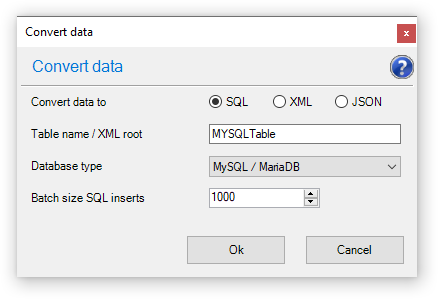
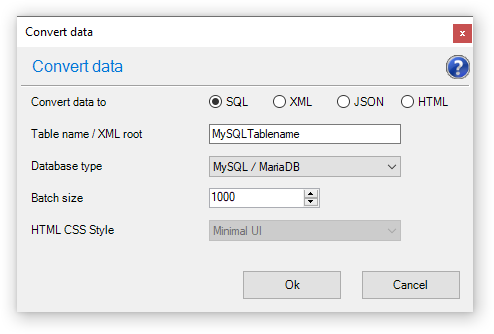
Update for 0.4.8
Version, DLLs, readme and screenshots update for 0.4.8

Changed region(s): [[0.0297, 0.0301, 0.9795, 0.9331], [0.0594, 0.5418, 0.3265, 0.7224]]

diff --git a/CSVLintNppPlugin/Properties/AssemblyInfo.cs b/CSVLintNppPlugin/Properties/AssemblyInfo.cs
@@ -32,5 +32,5 @@ using System.Runtime.InteropServices;
 // You can specify all the values or you can default the Build and Revision Numbers 
 // by using the '*' as shown below:
 // [assembly: AssemblyVersion("1.0.*")]
-[assembly: AssemblyVersion("0.4.7.0")]
-[assembly: AssemblyFileVersion("0.4.7.0")]
+[assembly: AssemblyVersion("0.4.8.0")]
+[assembly: AssemblyFileVersion("0.4.8.0")]

diff --git a/CSVLintNppPlugin/CsvLint/CsvSchemaIni.cs b/CSVLintNppPlugin/CsvLint/CsvSchemaIni.cs
@@ -108,8 +108,7 @@ namespace CSVLintNppPlugin.CsvLint
                 //MessageBox.Show(ex.ToString());
                 errmsg = ex.Message;
                 return false;
-            }
-            ;
+            };
             string file = Path.GetFileName(filePath);
 
             // schema.ini and section name

diff --git a/docs/readme.md b/docs/readme.md
@@ -134,7 +134,7 @@ a dialog will appear where you can manually enter the properties of the datafile
 Here you can enter the column separator character or Fixed Width.
 When selecting "Fixed Width" you can optionally provide a comma separated
 list of the column ending positions in "Column end positions". For example
-the text data `2025-10-15HbA1c 123.5` has column end positions `10, 16, 21`.
+the text data `2026-10-15HbA1c 123.5` has column end positions `10, 16, 21`.
 The plug-in expects column character positions, but if you instead enter
 the individual column widths, so `10, 6, 5` in this example, that will also
 work in most cases. Leave "Fixed positions" empty and the plug-in will
@@ -329,7 +329,7 @@ right. It will check the input data for the following errors:
 * Non-numeric values in numeric columns, example value "n/a" when column datatype is Integer
 * Incorrect decimal separator, example value "12.34" when DecimalSymbol is set to comma
 * Too many decimals, example value "12.345" when NumberDigits=2
-* Incorrect date format, example value "12/31/2025" when DateTimeFormat=dd/mm/yyyy
+* Incorrect date format, example value "12/31/2026" when DateTimeFormat=dd/mm/yyyy
 * Date value out of range, example value "01/01/2205" when YearMaximum=2050
 * Too few or too many columns
 * Invalid enumeration code, example value "Cooldown" when Enumeration="Warmup|Training|Recovery"
@@ -351,7 +351,7 @@ current `Apply quotes` setting in the Reformat dialog.
 
 ![CSV Lint sort data dialog](/docs/csvlint_sort_data.png?raw=true "CSV Lint plug-in sort data dialog")
 
-Sort on **value** to sort on the actual values, for example date value `31-01-2025` is lower than `01-12-2025`.  
+Sort on **value** to sort on the actual values, for example date value `31-01-2026` is lower than `01-12-2026`.  
 Sort on **length of value** to sort on the character length of the values, for example `xray` has a smaller length than `abdominal`.
 
 Sort **ascending** start with low values, end with high values `0 -> 9, A -> Z`  
@@ -435,10 +435,10 @@ as a date value formatted as `dd-mm-yyyy`, see some example results below:
 
 | visitdat   | visitdat (2) | visitdat (3) |
 |------------|--------------|--------------|
-| 15-04-2023 | 15-04-2023   |              |
-| 23-05-2021 | 23-05-2021   |              |
-| 07/26/2024 |              | 07/26/2024   |
-| 18-09-2025 | 18-09-2025   |              |
+| 15-04-2024 | 15-04-2024   |              |
+| 23-05-2022 | 23-05-2022   |              |
+| 07/26/2025 |              | 07/26/2025   |
+| 18-09-2026 | 18-09-2026   |              |
 | No show    |              | No show      |
 
 ### Split on character ###
@@ -464,7 +464,7 @@ examples below
 | stringval             | stringval (2) | stringval (3) |
 |-----------------------|---------------|---------------|
 | usr/medic/p01/img.nii | usr/medic/p01 | img.nii       |
-| 31/12/2025            | 31/12         | 2025          |
+| 31/12/2026            | 31/12         | 2026          |
 | Creatinine            | Creatinine    |               |
 | /MED-0001             |               | MED-0001      |
 | mo/tu/we/th/fr        | mo/tu/we/th   | fr            |
@@ -479,7 +479,7 @@ other examples below
 | position        | position (2) | position (3) |
 |-----------------|--------------|--------------|
 | ZKH\21-006-2516 | ZKH          | \21-006-2516 |
-| 1-6-2025        | 1-6          | -2025        |
+| 1-6-2026        | 1-6          | -2026        |
 | TGAGCATCGGAC    | TGA          | GCATCGGAC    |
 | 1.2650          | 1.2          | 650          |
 | 4015672111745   | 401          | 5672111745   |
@@ -491,7 +491,7 @@ see other examples below
 | posneg         | posneg (2) | posneg (3) |
 |----------------|------------|------------|
 | medication.txt | medication | .txt       |
-| 31-12-2025     | 31-12-     | 2025       |
+| 31-12-2026     | 31-12-     | 2026       |
 | ACGAGTATCATG   | ACGAGTAT   | CATG       |
 | 12.345         | 12         | .345       |
 | M978196A002    | M978196    | A002       |
@@ -567,7 +567,7 @@ of values will be in the order as the values were first found in the dataset.
 
 Convert data
 ------------
-Convert the currently selected CSV file to SQL, XML or JSON format.
+Convert the currently selected CSV file to SQL, XML, JSON or HTML format.
 
 ![CSV Lint Convert data dialog](/docs/csvlint_convert_data.png?raw=true "CSV Lint plug-in Convert data dialog")
 
@@ -576,6 +576,10 @@ The plug-in will automatically apply formatting based on the metadata,
 as well as applying character escaping where needed for these formats.
 For XML, enter a `Table/tag name` to use as tag name for each record,
 or leave it empty to use the current filename.
+
+Select HTML to convert the data to an HTML table. Set the batch size to limit
+the number of records per table, possibly resulting in multiple tables
+depending on your dataset size.
 
 Select SQL to convert the data to an SQL script to create a database
 table and inserts all records from the CSV datafile into that table.
@@ -590,7 +594,7 @@ use the current filename as table name.
 See below for an example of an SQL insert script the plugin will generate:
 
     -- -------------------------------------
-    -- CSV Lint plug-in: v0.4.7
+    -- CSV Lint plug-in: v0.4.8
     -- File: cardio.txt
     -- SQL type: MySQL
     -- -------------------------------------
@@ -610,9 +614,9 @@ See below for an example of an SQL insert script the plugin will generate:
         visitdat,
         labpth
     ) VALUES
-    (1001, '2025-08-21 00:00:00', 10.8),
-    (2002, '2025-09-05 00:00:00', 143.5),
-    (3003, '2025-09-24 00:00:00', 76.4),
+    (1001, '2026-08-21 00:00:00', 10.8),
+    (2002, '2026-09-05 00:00:00', 143.5),
+    (3003, '2026-09-24 00:00:00', 76.4),
     -- etc.
 
 Note: Oracle is not supported as Database type, but you can work around this by
@@ -744,5 +748,6 @@ History
 25-jun-2024 - v0.4.6.7 Reformat bugfix, improved enumeration, sort on length  
 28-feb-2025 - v0.4.6.8 Improved sorting for enumeration columns, minor updates  
 08-aug-2025 - v0.4.7 Select columns, large files warning, Fixed Width detection improved, minor updates  
+20-jun-2026 - v0.4.8 Fix random crashes, add HTML table option, minor updates  
 
-BdR©2019-2025 Free to use - send questions or comments: Bas de Reuver - [email redacted]
+BdR©2019-2026 Free to use - send questions or comments: Bas de Reuver - [email redacted]

diff --git a/readme.md b/readme.md
@@ -50,8 +50,8 @@ The CSV Lint plugin is available in Notepad++ in the Plugins Admin menu.
 * Click `Yes` to quit Notepad++ and "continue the operations"
 * Click `Yes` on the Windows notification "Allow app to make changes"
 
-Note: the plug-in is available in the Plugins Admin menu starting with
-Notepad++ v8.1.9.1. If you have a Notepad++ version older than v8.1.9.1 or
+Note: the plug-in is available in the Plugins Admin menu since
+Notepad++ v8.1.9.1 (november 2021). If you have an older Notepad++ version or
 want to install the plug-in manually:
 
 * Go to the [releases page](https://github.com/BdR76/CSVLint/releases)
@@ -126,7 +126,7 @@ right. It will check the input data for the following errors:
 * Non-numeric values in numeric columns, example value "n/a" when column datatype is Integer
 * Incorrect decimal separator, example value "12.34" when DecimalSymbol is set to comma
 * Too many decimals, example value "12.345" when NumberDigits=2
-* Incorrect date format, example value "12/31/2025" when DateTimeFormat=dd/mm/yyyy
+* Incorrect date format, example value "12/31/2026" when DateTimeFormat=dd/mm/yyyy
 * Date value out of range, example value "01/01/2205" when YearMaximum=2050
 * Too few or too many columns
 * Invalid enumeration, example value "Cooldown" when Enumeration="Warmup|Training|Recovery"
@@ -166,7 +166,7 @@ unexpected validation results, try saving the data file or refreshing the
 metadata before clicking "Detect columns".
 
 * When you press "Detect columns" the datetime format of the data isn't always
-detected correctly. Especially when the data contains values like `05/06/2025`
+detected correctly. Especially when the data contains values like `05/06/2026`
 the order of day and month can be incorrect. Also, formats with `AM`/`PM`
 or `T` for the time part are not automatically detected. You can adjust it
 manually to match your data before pressing the "Validate data" button.
@@ -189,6 +189,11 @@ With thanks to:
 The CSV Lint plug-in couldn't have been created without their source examples, suggestions and valuable feedback.
 For a similar plug-in for Visual Studio Code check out [Rainbow CSV](https://github.com/mechatroner/vscode_rainbow_csv).
 
+Testimonials
+------------
+* "Sniff out rogue separators and messy lines like a data snob." -- [Bardo Schütz, Team 14](https://www.linkedin.com/pulse/first-time-i-opened-xml-file-used-excel-still-have-bardo-sch%C3%BCtz-40rme/)
+
+
 Disclaimer
 ----------
 This software is free-to-use and it is provided as-is without warranty of any kind.  
@@ -197,4 +202,4 @@ All [test files](../../tree/master/testdata/), examples and screenshots provided
 [randomly generated](https://github.com/BdR76/RandomValuesNPP) data,
 any resemblance to real-life cases is the result of chance.
 
-BdR©2019-2025 Free to use - send questions or comments: Bas de Reuver - [email redacted]
+BdR©2019-2026 Free to use - send questions or comments: Bas de Reuver - [email redacted]